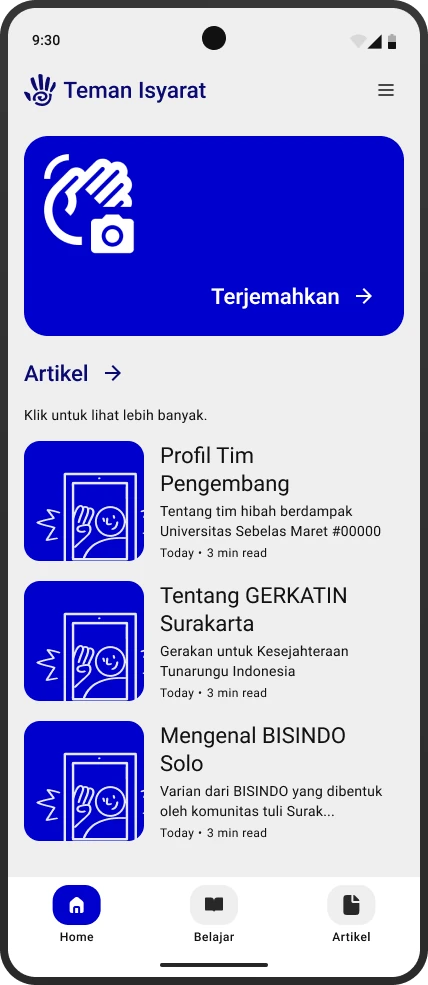
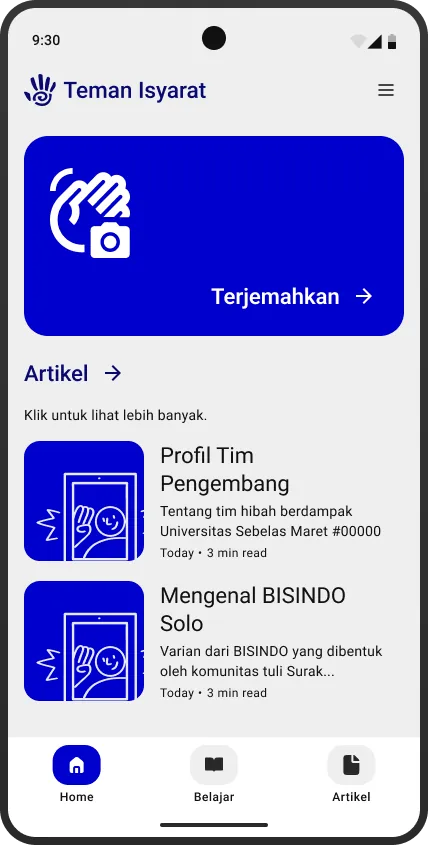
fix more beranda layout

diff --git a/src/app/page.tsx b/src/app/page.tsx
@@ -77,7 +77,7 @@ export default function Home() {
           <div className="mx-auto flex max-w-[1440px] flex-col items-center px-6 pt-10 sm:px-10 lg:px-32 lg:pt-16 lg:gap-4 md:gap-2.5 gap-1.5">
             <InlineImage src={logoGroupSmall} alt="TemanIsyarat" className="h-auto w-[140px]" />
 
-            <div className="mt-6 flex max-w-4xl flex-col items-center gap-6 text-center lg:mt-8">
+            <div className="mt-6 flex max-w-3xl flex-col items-center gap-6 text-center lg:mt-8">
               <h1 className="text-balance text-[clamp(2.15rem,4vw,2.5rem)] font-bold leading-[1.3] tracking-tight text-[#111111]">
                 Mobile App Penerjemah Bahasa Isyarat Real-Time
               </h1>
@@ -86,10 +86,10 @@ export default function Home() {
                 <ActionButton href="https://github.com/temanisyarat/android/releases" tone="dark" arrow>
                   Unduh Sekarang
                 </ActionButton>
-                <ActionButton href="https://github.com/temanisyarat/manager" tone="blue">
+                <ActionButton href="https://github.com/temanisyarat/manager" tone="blue" arrow>
                   Dokumentasi
                 </ActionButton>
-                <ActionButton href="https://github.com/temanisyarat/dataset" tone="light">
+                <ActionButton href="https://github.com/temanisyarat/dataset" tone="light" arrow>
                   Dataset
                 </ActionButton>
               </div>
@@ -104,7 +104,7 @@ export default function Home() {
                 />
               </div>
 
-              <div className="block w-full max-w-sm md:hidden">
+              <div className="block w-full mb-12 max-w-sm md:hidden">
                 <InlineImage
                   src={mobileHero}
                   alt="Pratinjau aplikasi TemanIsyarat di ponsel"
@@ -159,11 +159,11 @@ export default function Home() {
           </div>
         </section>
 
-        <section className="bg-[#e5e8fa]">
+        <section className="bg-[#e5e8fa] h-screen flex items-center">
           <div className="mx-auto max-w-[1440px] px-6 py-14 sm:px-10 lg:px-32 lg:py-16">
-            <p className="mx-auto max-w-5xl text-center text-[clamp(1.5rem,3vw,2rem)] leading-[1.5] text-[#111111]">
+            <p className="mx-auto max-w-5xl text-center text-[clamp(1.25rem,3vw,2rem)] leading-[1.5] text-[#111111]">
               <span className="text-[#0000cc]">
-                Teknologi bahasa isyarat saat ini sering kali &quot;buta dialek&quot; karena hanya dilatih
+                Teknologi penerjemah bahasa isyarat saat ini sering kali &quot;buta dialek&quot; karena hanya dilatih
                 menggunakan varietas kota besar tertentu.
               </span>{" "}
               Proyek ini hadir untuk membangun infrastruktur teknologi yang menghormati ragam bahasa BISINDO
@@ -228,32 +228,35 @@ export default function Home() {
           <SectionTitle accent={false}>Profil Tim Pengembang</SectionTitle>
 
           <div className="mt-10 rounded-[64px] bg-[#e5e8fa] px-6 py-8 lg:px-16 lg:py-16">
-            <div className="grid justify-items-center gap-6 lg:justify-items-start lg:grid-cols-[repeat(2,minmax(0,272px))_1fr] lg:items-middle">
-              {teamCards.map((card) => (
-                <article key={card.title} className="w-full max-w-[272px] rounded-[24px] bg-white p-6 text-center lg:text-left">
-                  <div className="flex flex-col gap-6">
-                    <div className="relative h-[231px] overflow-hidden rounded-[12px] bg-[#d7d7d7]">
-                      <Image
-                        src={card.image}
-                        alt={card.title}
-                        fill
-                        className="object-cover"
-                        style={{ objectPosition: card.imagePosition }}
-                        sizes="272px"
-                      />
-                    </div>
+            <div className="flex flex-col sm:flex-row justify-center md:justify-between items-center w-full md:items-middle gap-20 md:gap-6">
+              {/* container buat card dipisah dari button biar bisa distyling sendiri2 */}
+              <div className="flex gap-6 sm:flex-row flex-col items-center w-full lg:max-w-3/5">
+                {teamCards.map((card) => (
+                  <article key={card.title} className="w-full rounded-[24px] bg-white p-6 text-center md:text-left">
+                    <div className="flex flex-col gap-6">
+                      <div className="relative h-[231px] overflow-hidden rounded-[12px] bg-[#d7d7d7]">
+                        <Image
+                          src={card.image}
+                          alt={card.title}
+                          fill
+                          className="object-cover"
+                          style={{ objectPosition: card.imagePosition }}
+                          sizes="272px"
+                        />
+                      </div>
 
-                    <div className="space-y-1">
-                      <h3 className="text-[clamp(1.5rem,2vw,2rem)] font-semibold leading-none text-[#111111]">
-                        {card.title}
-                      </h3>
-                      <p className="text-[16px] leading-none text-[#111111]">{card.role}</p>
+                      <div className="space-y-1">
+                        <h3 className="text-[clamp(1.5rem,2vw,2rem)] font-semibold leading-none text-[#111111]">
+                          {card.title}
+                        </h3>
+                        <p className="text-[16px] leading-none mt-4 text-[#111111]">{card.role}</p>
+                      </div>
                     </div>
-                  </div>
-                </article>
-              ))}
+                  </article>
+                ))}
+              </div>
 
-              <div className="flex justify-center mt-4 lg:justify-left">
+              <div className="sm:mt-4 lg:justify-left">
                 <ActionButton href="/tentang" tone="dark" arrow large>
                   Lihat Semua
                 </ActionButton>